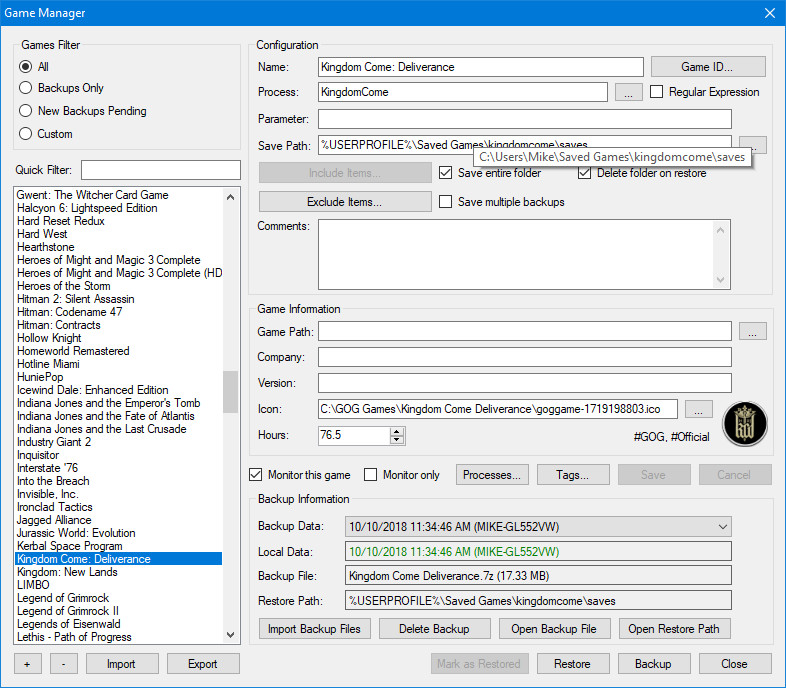
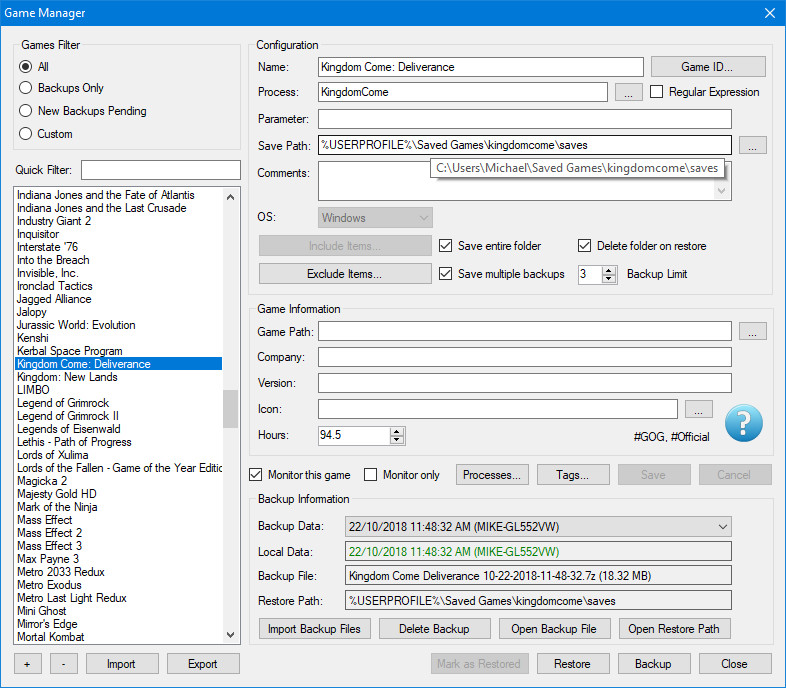
Updated manual.html and index.html for v118

diff --git a/manual.html b/manual.html
@@ -30,10 +30,10 @@
       <div id="leftcontent">
         <div class="pageSection">
           <div class="pageSectionHeader">
-            Game Backup Monitor v1.1.6 Manual
+            Game Backup Monitor v1.1.8 Manual
           </div>
           <div class="pageSectionContent">
-            <h3 class="notop">Updated November 18, 2018</h3>
+            <h3 class="notop">Updated March 14, 2019</h3>
             <h3>Disclaimer:</h3>
             <p>This manual may contain information about features not available in the current stable release.</p>
             <p>If you are having a specific problem, please check the <a href="https://github.com/MikeMaximus/gbm/issues">issues</a> list.</p>
@@ -45,6 +45,7 @@
               <li><a href="#mainoverview">Main Window Overview</a></li>
               <li><a href="#settings">Settings</a></li>
               <li><a href="#gamemanager">The Game Manager</a></li>
+              <li><a href="#registry">Windows Registry Backups</a></li>
               <li><a href="#search">Search</a></li>
               <li><a href="#import">Importing Game Configurations</a></li>
               <li><a href="#customvariables">Custom Path Variables</a></li>
@@ -169,11 +170,11 @@
             <p>GBM uses the game Name by default for folder and files names.  After enabling this setting GBM will use the game ID instead.</p>
             <h4>Display notifications about new backups:</h4>
             <p>This indicates if you want GBM to display notifications when new backups are detected or restored.<br /><br />These notifications are presented differently depending on your other settings:
-				<ul>
-					<li>When automatically restoring new backup files, standard Windows notifications are used.  These notifications are not stored in the action center when using Windows 10, this is a known issue that may be addressed in a future release.</li>
-					<li>When manually handling new backup files, a small notification will appear on the menu bar and GBM system tray menu.  Clicking this notification will take you directly to the Game Manager, where you can restore your backups as you see fit.</li>
-				</ul>
-			</p>
+				    <ul>
+					    <li>When automatically restoring new backup files, standard Windows notifications are used.  These notifications are not stored in the action center when using Windows 10, this is a known issue that may be addressed in a future release.</li>
+					    <li>When manually handling new backup files, a small notification will appear on the menu bar and GBM system tray menu.  Clicking this notification will take you directly to the Game Manager, where you can restore your backups as you see fit.</li>
+				    </ul>
+			      </p>
             <h4>Automatically restore new backups:</h4>
             <p>This indicates if GBM will automatically restore new backup files when they are detected.  GBM will automatically restore backup files only if the save folder for the game currently exists.</p>
             <p>When using cloud software (such as Dropbox) it's possible that the new backup file won't be ready to restore at the time it's detected.  GBM will check once every minute and restore the backup once it's ready, after 15 minutes this operation will time out.</p>
@@ -181,6 +182,8 @@
             <p>This indicates if GBM will automatically mark a new backup as restored when the save folder for the game doesn't exist.  This should be used when you don't want to see pending backups for games that aren't currently installed.</p>
             <h4>Disable backup confirmation:</h4>
             <p>This will stop GBM from showing a backup confirmation after each game session.</p>
+            <h4>Disable disk space check prior to backup:</h4>
+            <p>This will stop GBM from checking if enough disk space is available before performing a backup.  Disabling this option can solve issues with certain backup configurations, as well as speed up the backup process in general.
             <h4>Show overwrite warning:</h4>
             <p>This will require GBM to show a confirmation before overwriting any backup file.</p>
             <h3>Startup</h3>        
@@ -274,6 +277,7 @@
             <p>Most games don't tell you where they save. I highly recommend using PC Gaming Wiki or searching common locations such as the game's installation folder, My Documents or AppData for the location of game saves.</p>
             <p>This path can be absolute, or relative to the game's executable.</p>
             <p>GBM will automatically determine absolute or relative path settings. If the save games are located in the game folder itself, you should always strive to use a path relative to the game's executable, this way your configuration will work on any PC regardless of where a game is installed. If you don't know what that means then I highly recommend using the "Add Game Wizard" to add new games.</p>
+            <p>The path can also be certain Windows registry locations, please see the <a href="#registry">Windows registry</a> section of the manual for more details.</p>
             <h4>Save Entire Folder:</h4>
             <p>This indicates if GBM should backup the entire folder indicated in the path. If you don't really know what files are important to be saving, just tick this box. Choosing this option will disable and clear any Include Items.</p>
             <h4>Save Multiple Backups:</h4>
@@ -290,6 +294,8 @@
             <p>GBM checks for dangerous configurations in which this option should not be used and disables it, but even so use caution with this option.</p>
             <h4>Comments:</h4>
             <p>This is used to store any extra information about the configuration.</p>
+            <h4>OS:</h4>
+            <p>This is the target operating system of the configuration.  The OS field cannot be modified in Windows, this field allows Linux users to manage native and Windows games in the same list.
             <h4>Include and Exclude Items:</h4>
             <p>You can configure which file types, specific files or sub-folders should be included in or excluded from the backup using the Include / Exclude Builder.</p>
             <p>Click the Include Items... or Exclude Items.. button to launch the builder.</p>
@@ -372,6 +378,28 @@
         </div>
         <div class="pageSection">
           <div class="pageSectionHeader">
+            <a name="registry" id="registry">Windows Registry Backups</a>
+          </div>
+          <div class="pageSectionContent">
+            <p>Games can also save your progress to the Windows registry instead of using a location on your hard drive.  As of v1.1.8, GBM now supports saving and restoring registry keys.</p>
+            <img class="manual" src="images/manual/manual_24.jpg" width="786" height="688" alt="Registry Configuration" />
+            <h4>Important Details:</h4>
+            <ul>
+              <li>Registry backups are supported in Windows and in Wine/Proton on Linux.</li>
+              <li>The Windows/Wine reg.exe utility is used to manipulate the registry, GBM does not manipulate it directly.</li>
+              <li>In Windows, GBM must be running as administrator to backup from or restore to the registry.</li>
+              <li>GBM cannot backup or restore specific registry values, only entire keys and/or sub-keys.  This is a limitation of reg.exe and regedit.exe.  If that doesn't make sense, <a href="https://docs.microsoft.com/en-us/windows/desktop/SysInfo/structure-of-the-registry" target="_blank">read more</a> about the Windows registry.
+              <li>GBM only supports saving and restoring to the HKEY_LOCAL_MACHINE and HKEY_CURRENT_USER registry hives.</li>
+              <li>GBM will detect registry configurations based on the presence of HKEY_LOCAL_MACHINE or HKEY_CURRENT_USER in the path field.</li>
+              <li>The Game Manager will disable all the features that are not supported when a registry configuration is detected.</li>
+            </ul>
+          </div>
+          <div class="pageSectionFooter">
+            <a href="#toc">Back to Contents</a>
+          </div>
+        </div>
+        <div class="pageSection">
+          <div class="pageSectionHeader">
             <a name="search" id="search">Search</a>
           </div>
           <div class="pageSectionContent">
@@ -413,7 +441,7 @@
           <div class="pageSectionHeader">
             <a name="customvariables" id="customvariables">Custom Path Variables</a>
           </div>
-          <div class="pageSectionContent">
+          <div class="pageSectihhonContent">
             <p>This screen allows you add an unlimited number of custom path variables to use in the configuration of your games.</p><img class="manual" src="images/manual/manual_09.jpg" width="586" height="288" alt="Tags" /><br />
             <p>Some applications and games store save files in common locations that can be slightly different on each computer, this feature allows you account for that and share configurations between any computer.</p>
             <p>For example, games designed for Valve's Steam service can use the Steam "userdata" folder as a common save location.</p>

diff --git a/index.html b/index.html
@@ -45,20 +45,14 @@
           <div class="pageSectionContent">
             <h3 class="notop">Important News</h3>
             <ul>
-		<li>The work on the next version (v1.1.8) is coming along slowly.  Some of the planned features include:
-			<ul>
-			  <li>Support for backing up saved games that are stored in the Windows registry, including support for Windows games running under Wine in Linux.</li>
-			  <li>Allow GBM to automatically start in a Linux session using a built-in setting, as it already does in Windows.</li>
-			  <li>QoL improvements when working with Windows game backup configurations in Linux.</li>
-			</ul>
-		There is currently no release date for the next version. Judging by the lack of issues reported, v1.1.7 has been one of the most stable GBM releases and I hope it's working great for everyone.</li>				
-		<li><a href="https://github.com/MikeMaximus/gbm/releases/tag/v1.1.7">v1.1.7</a> has been released!</li>
+              <li>v1.1.8 will be released on or before April 1st, 2019.  For a list of new features and fixes, please check out the <a href="https://github.com/MikeMaximus/gbm/blob/master/GBM/readme.txt" target=_blank>readme.txt</a>.
+		          <li><a href="https://github.com/MikeMaximus/gbm/releases/tag/v1.1.7">v1.1.7</a> has been released!</li>
             </ul>
             <h3>Notices</h3>
             <ul>
-                <li>The <a href="manual.html">manual</a> has been updated to include features added in v1.1.7.</li>                                
+                <li>The <a href="manual.html">manual</a> has been updated to include features added in v1.1.8.</li>                                
             </ul>
-            <h3>Updated February 22nd, 2019</h3>
+            <h3>Updated March 14th, 2019</h3>
           </div>
         </div>
         <div class="pageSection">
